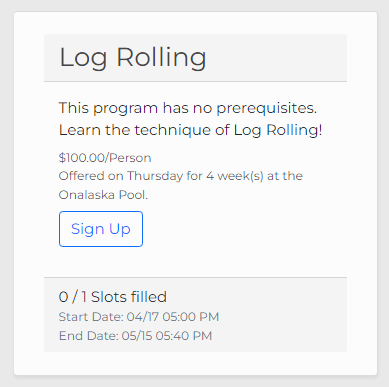
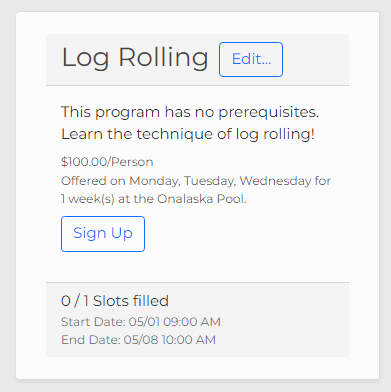
Updated docs with editing/deactivation (src)
- Added a page for Staff on editing programs
- Added a page for Staff on deactivating programs
- Updated a few outdated images

Changed region(s): [[0.1542, 0.2481, 0.8638, 0.6512], [0.1542, 0.7442, 0.5861, 0.8992], [0.1542, 0.093, 0.7404, 0.2171]]

diff --git a/source/UserManual/StaffOnly/deactivateprogram.rst b/source/UserManual/StaffOnly/deactivateprogram.rst
@@ -1,0 +1,30 @@
+Deactivating a Program
+======================
+
+While programs in the system may not be deleted, they may be deactivated to prevent users from signing up for them.  This page will explain how to deactivate a program and the consequences of doing so.
+
+1. Navigate to the Programs page and click the "Edit..." button of the program you would like to deactivate.
+
+.. image:: img/editprogram1.png
+
+.. image:: img/editprogram2.png
+
+2. Click the red "Deactivate" button.  
+
+.. image:: img/deactivateprogram3.png
+
+3. A prompt will ask you to confirm the deactivation.  Please review the following before going through with the deactivation.
+
+- A program cannot be reactivated after its deactivation.
+- A program cannot be edited after its deactivation.
+- A program can still be seen on the Programs page after its deactivation, with a message that it has been deactivated. 
+- Deactivating the program will cause any enrollments associated with the program to be cancelled.
+- Any users who have enrolled in the program prior to its deactivation will see the program in their Enrollments with a message that it has been deactivated.
+
+If you would like to proceed, confirm your decision by clicking "Yes" in the prompt.
+
+.. image:: img/deactivateprogram4.png
+
+After deactivating the program, it will appear on the Programs page with all of its enrollments removed.
+
+.. image:: img/deactivateprogram5.png

diff --git a/source/UserManual/StaffOnly/programcreation.rst b/source/UserManual/StaffOnly/programcreation.rst
@@ -12,7 +12,7 @@ This tutorial will teach you how to create a program within the MyMCA system.
 - All fields will need to be filled in.
 - Cost represents the standard non-member cost for the program.  This cost will be halved for members.
 - The Start Date of the program is required to be before the End Date.
-- More Occurrences can be added by using the "+" button.  Only add as many Occurrences as needed.
+- More Occurrences can be added by using the "+" button and removed using the "-" button.  Only add as many Occurrences as needed.
 
 3. When all information is filled in properly, click the "Submit" button.
 
@@ -22,4 +22,4 @@ This tutorial will teach you how to create a program within the MyMCA system.
 
 .. image:: img/programcreation3.png
 
-Please keep in mind that programs cannot be changed after they are created.  If you would like to delete a program from the MyMCA system, please contact your senior Staff for assistance.
+If you would like to edit a program after it has been created, see :doc:`editprogram`.

diff --git a/source/UserManual/StaffOnly/editprogram.rst b/source/UserManual/StaffOnly/editprogram.rst
@@ -1,0 +1,16 @@
+Editing a Program
+=================
+
+As a Staff member, you will sometimes need to edit programs after they are already created.  This page will guide you on how to do so.
+
+1. Navigate to the Programs page and find the program you would like to edit.  Click the "Edit..." button next to the title of the program.
+
+.. image:: img/editprogram1.png
+
+.. image:: img/editprogram2.png
+
+2. You will see the program's information, ready to be edited.  Make your desired changes and click the "Save" button.
+
+.. image:: img/editprogram3.png
+
+You will see an indication that the program has been saved.  These changes will be reflected in the Programs page.  If you would like to deactivate a program, see :doc:`deactivateprogram`.

diff --git a/source/UserManual/StaffOnly/general.rst b/source/UserManual/StaffOnly/general.rst
@@ -6,6 +6,8 @@ This section of the User Manual is intended for the training of Staff members on
 .. toctree::
 
    Creating a Program <programcreation>
+   Editing a Program <editprogram>
+   Deactivating a Program <deactivateprogram>
    Viewing Users and their Enrollments <userviewing>
 
 .. |UM link| raw:: html
